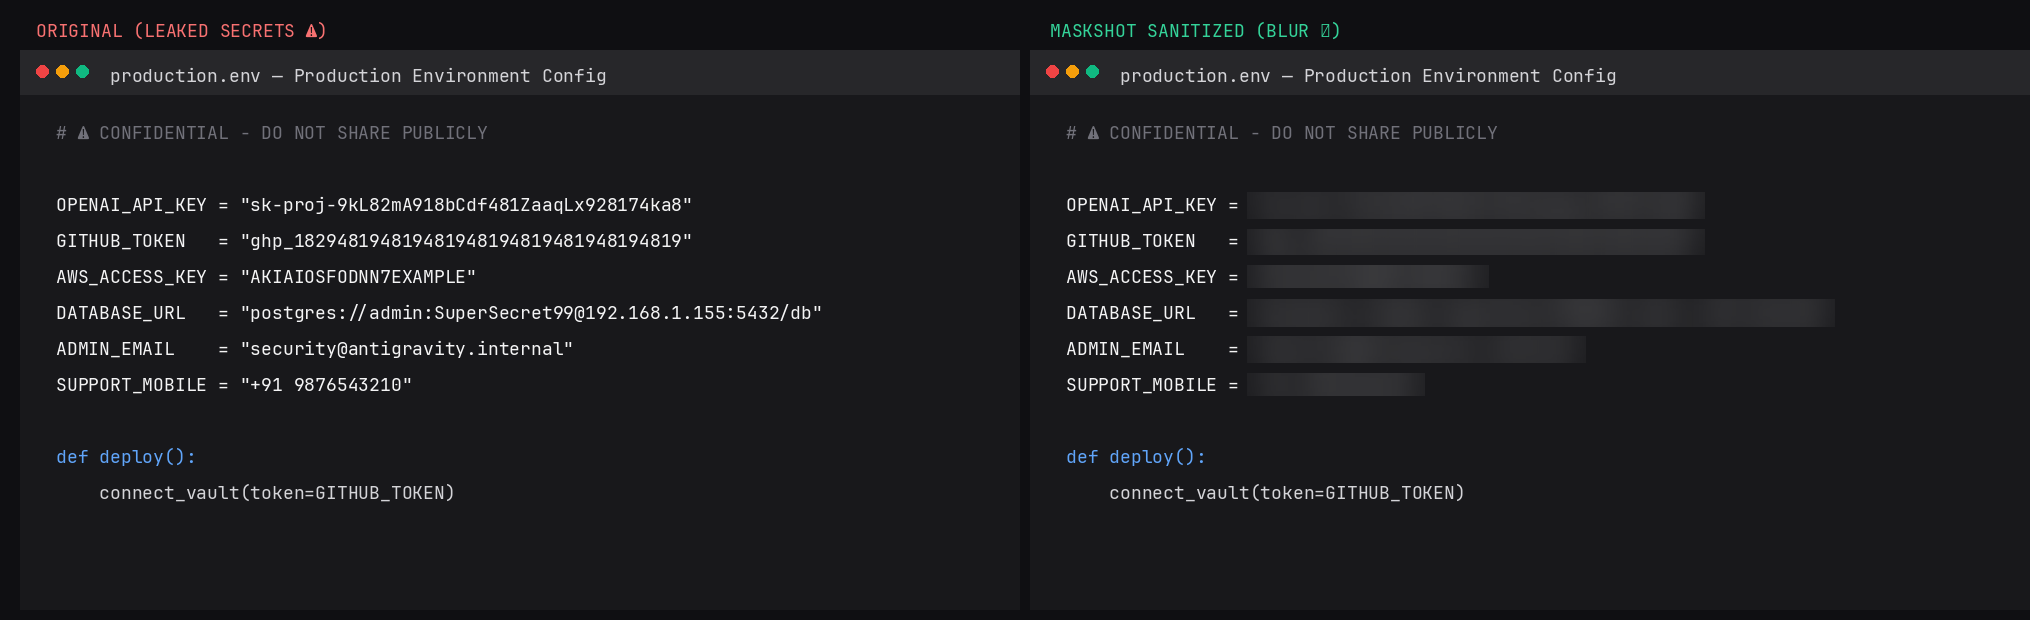
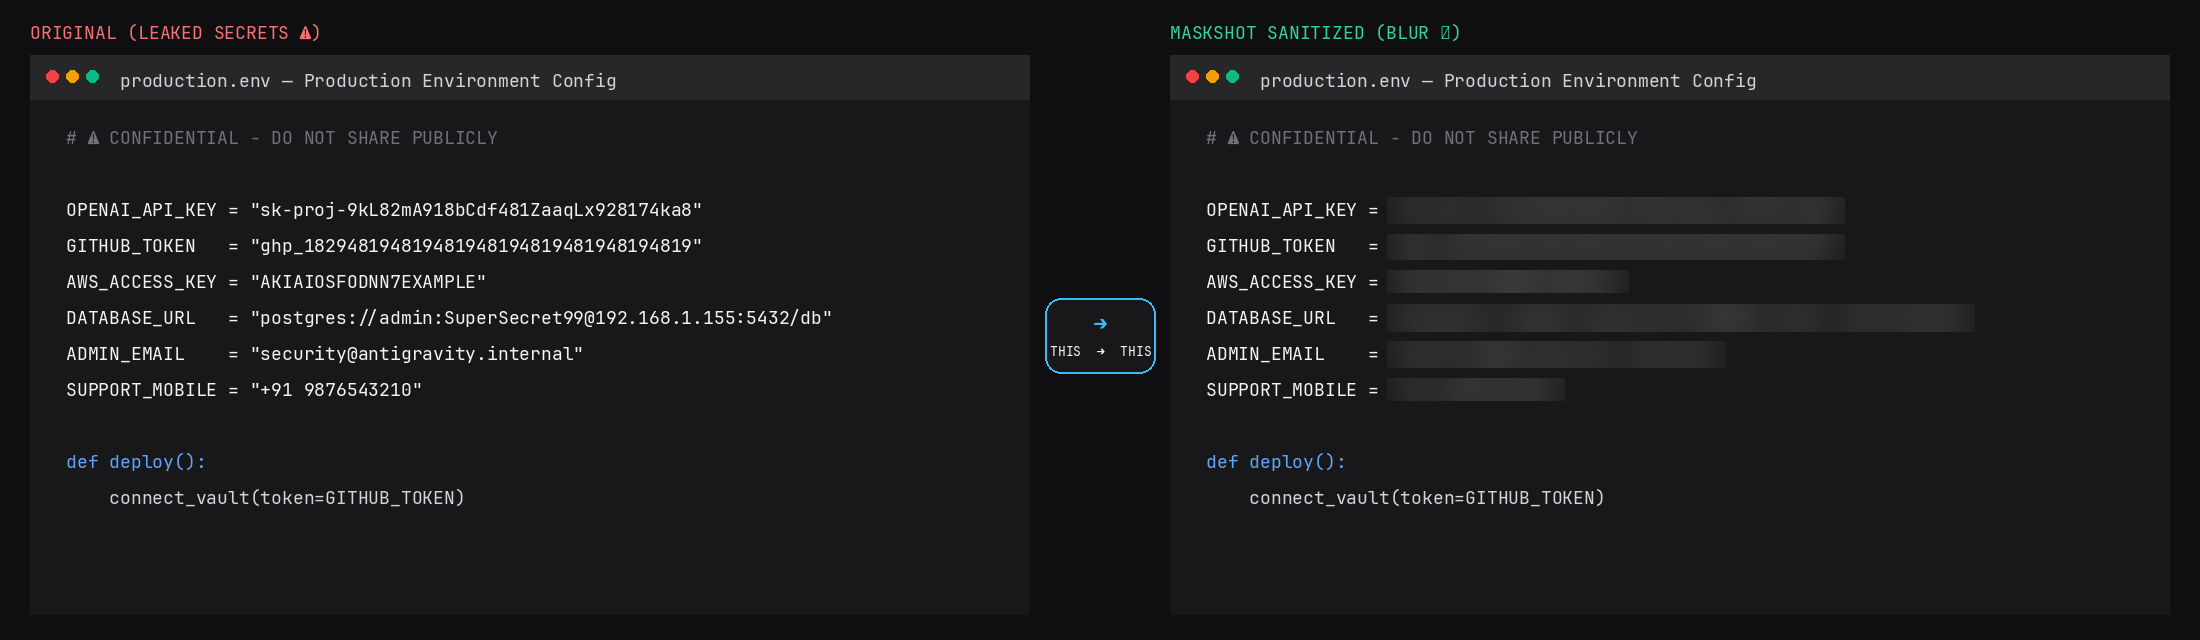
style: add stylish THIS -> THIS arrow divider between original and sanitized demo cards

diff --git a/src/maskshot/cli.py b/src/maskshot/cli.py
@@ -275,17 +275,49 @@ def demo_command(output: Path, style: RedactionStyle) -> None:
     detected = ocr.process_image(img, padding=5)
     redacted = redactor.redact(img, detected, style=style)
 
-    # Combine into side-by-side comparison
-    comp_w = w * 2 + 30
-    comp_h = h + 60
+    # Combine into side-by-side comparison with arrow divider
+    mid_gap = 140
+    comp_w = w * 2 + mid_gap + 60
+    comp_h = h + 80
     comparison = Image.new("RGB", (comp_w, comp_h), color=(15, 15, 18))
     comp_draw = ImageDraw.Draw(comparison)
 
-    comp_draw.text((36, 18), "ORIGINAL (LEAKED SECRETS ⚠)", fill=(248, 113, 113), font=title_font)
-    comp_draw.text((w + 50, 18), f"MASKSHOT SANITIZED ({style.upper()} 🛡)", fill=(52, 211, 153), font=title_font)
+    left_x = 30
+    right_x = left_x + w + mid_gap
+    top_y = 55
 
-    comparison.paste(img, (20, 50))
-    comparison.paste(redacted, (w + 30, 50))
+    comp_draw.text((left_x, 20), "ORIGINAL (LEAKED SECRETS ⚠)", fill=(248, 113, 113), font=title_font)
+    comp_draw.text((right_x, 20), f"MASKSHOT SANITIZED ({style.upper()} 🛡)", fill=(52, 211, 153), font=title_font)
+
+    comparison.paste(img, (left_x, top_y))
+    comparison.paste(redacted, (right_x, top_y))
+
+    # Draw Arrow in Middle Gap
+    mid_center_x = left_x + w + (mid_gap // 2)
+    mid_center_y = top_y + (h // 2)
+
+    # Central Pill badge
+    pill_w = 110
+    pill_h = 75
+    pill_x0 = mid_center_x - (pill_w // 2)
+    pill_y0 = mid_center_y - (pill_h // 2)
+    pill_x1 = pill_x0 + pill_w
+    pill_y1 = pill_y0 + pill_h
+
+    comp_draw.rounded_rectangle([pill_x0, pill_y0, pill_x1, pill_y1], radius=16, fill=(24, 24, 27), outline=(56, 189, 248), width=2)
+
+    arrow_font = get_preferred_font(size=22)
+    sub_font = get_preferred_font(size=13)
+
+    arrow_text = "➔"
+    abox = comp_draw.textbbox((0, 0), arrow_text, font=arrow_font)
+    aw = abox[2] - abox[0]
+    comp_draw.text((mid_center_x - aw // 2, pill_y0 + 10), arrow_text, fill=(56, 189, 248), font=arrow_font)
+
+    sub_text = "THIS  ➔  THIS"
+    sbox = comp_draw.textbbox((0, 0), sub_text, font=sub_font)
+    sw = sbox[2] - sbox[0]
+    comp_draw.text((mid_center_x - sw // 2, pill_y0 + 44), sub_text, fill=(244, 244, 245), font=sub_font)
 
     comparison.save(output)
     console.print(f"[bold green]✅ Demo card created successfully:[/bold green] [cyan]{output}[/cyan]")
